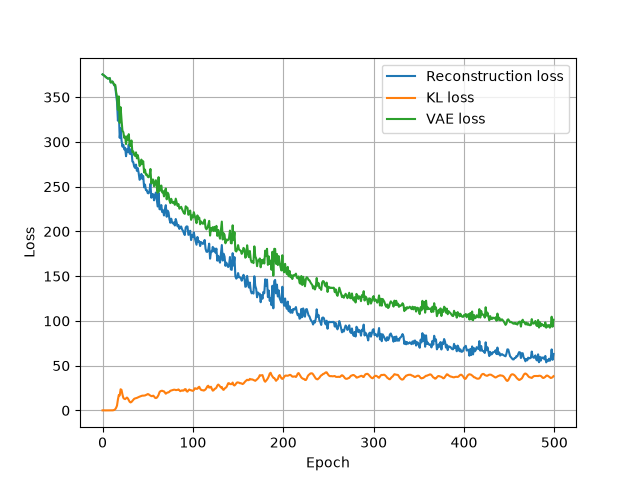
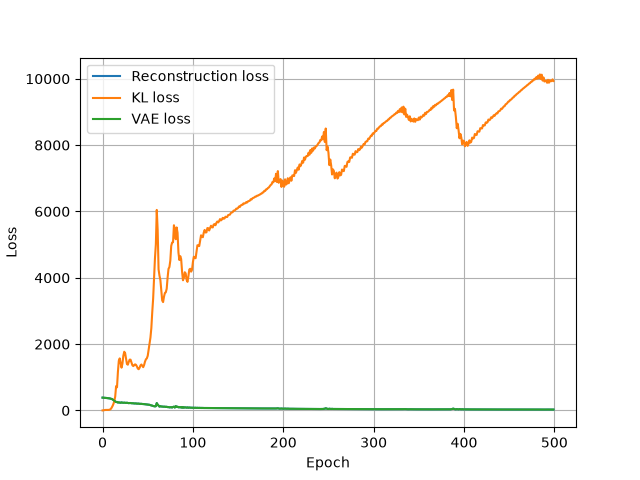
Fix for CNN spatial based VAE

diff --git a/scripts/overfitting_test.py b/scripts/overfitting_test.py
@@ -6,7 +6,7 @@ from src.models.factory import create_model
 from pathlib import Path
 from torch.utils.data import Subset
 from scripts.train import train_epoch
-from src.utils.reconstructions import get_reconstructions, save_reconstructions
+from src.utils.reconstructions import get_reconstructions, save_reconstructions, analyze_reconstructions
 from src.utils.plots import loss_plot
 
 def main():
@@ -50,7 +50,7 @@ def main():
     reconstruction_losses = []
     kl_losses = []
     for epoch in range(epochs):
-        train_loss, reconstruction_loss, kl_loss = train_epoch(vae, train_dataloader, optimizer, criterion, device)
+        train_loss, reconstruction_loss, kl_loss = train_epoch(vae, train_dataloader, optimizer, criterion, device, beta=0)
 
         train_losses.append(train_loss)
         reconstruction_losses.append(reconstruction_loss)
@@ -61,10 +61,14 @@ def main():
             f"Train: {train_loss:.4f} | "
         )
 
-    images, x_hats = get_reconstructions(vae, train_dataloader, device)
-    save_reconstructions(images, x_hats, PROJECT_ROOT / "results" / "overfitting_test_cnn_spatial_latent128")
+    #images, x_hats = get_reconstructions(vae, train_dataloader, device)
+    results = analyze_reconstructions(vae, train_dataloader, device, criterion)
+    images = torch.stack([result["image"] for result in results])
+    x_hats = torch.stack([result["x_hat"] for result in results])
+    save_reconstructions(images, x_hats, PROJECT_ROOT / "results" / "overfitting_test_cnn_spatial_8")
 
     loss_plot(reconstruction_losses, kl_losses, train_losses)
+
 
 if __name__ == "__main__":
     main()

diff --git a/src/models/cnn/spatial_latent/encoder.py b/src/models/cnn/spatial_latent/encoder.py
@@ -1,12 +1,12 @@
 import torch.nn as nn
 
 class Encoder(nn.Module):
-    def __init__(self, input_shape, latent_dim, latent_height=4, latent_width=4):
+    def __init__(self, input_shape, latent_dim, latent_height=8, latent_width=8):
         super().__init__()
 
         in_channels = input_shape[0]
 
-        latent_channels = latent_dim // (latent_height * latent_width)
+        latent_channels = 16 #latent_dim // (latent_height * latent_width)
 
         self.encoder = nn.Sequential(
             nn.Conv2d(in_channels=in_channels, out_channels=32, kernel_size=4, padding=1, stride=2),
@@ -19,8 +19,8 @@ class Encoder(nn.Module):
             nn.ReLU(),
 
         )
-        self.mu = nn.Conv2d(in_channels=128, out_channels=latent_channels, kernel_size=4, padding=1, stride=2)
-        self.logvar = nn.Conv2d(in_channels=128, out_channels=latent_channels, kernel_size=4, padding=1, stride=2)
+        self.mu = nn.Conv2d(in_channels=128, out_channels=latent_channels, kernel_size=1)
+        self.logvar = nn.Conv2d(in_channels=128, out_channels=latent_channels, kernel_size=1)
 
     def forward(self, x):
         e = self.encoder(x)

diff --git a/src/models/cnn/spatial_latent/decoder.py b/src/models/cnn/spatial_latent/decoder.py
@@ -1,13 +1,13 @@
 import torch.nn as nn
 
 class Decoder(nn.Module):
-    def __init__(self, latent_dim, output_shape, latent_height=4, latent_width=4):
+    def __init__(self, latent_dim, output_shape, latent_height=8, latent_width=8):
         super().__init__()
 
-        latent_channels = latent_dim // (latent_height * latent_width)
+        latent_channels = 16 #latent_dim // (latent_height * latent_width)
 
         self.decoder = nn.Sequential(
-            nn.ConvTranspose2d(in_channels=latent_channels, out_channels=128, kernel_size=4, padding=1, stride=2),
+            nn.ConvTranspose2d(in_channels=latent_channels, out_channels=128, kernel_size=1),
 
             nn.ReLU(),
             nn.ConvTranspose2d(in_channels=128, out_channels=64, kernel_size=4, padding=1, stride=2),

diff --git a/scripts/train.py b/scripts/train.py
@@ -218,7 +218,7 @@ def main():
     data_dir = root / "data" / "Cats"
     checkpoint_path = root / "checkpoints"
 
-    vae, train_losses, val_losses = train_model(model_type, seed, batch_size, image_size, latent_dim, epochs, learning_rate, data_dir, checkpoint_path, beta)
+    vae, train_losses, val_losses = train_model(model_type, seed, batch_size, image_size, latent_dim, epochs, learning_rate, data_dir, checkpoint_path, beta=1)
 
 
 
